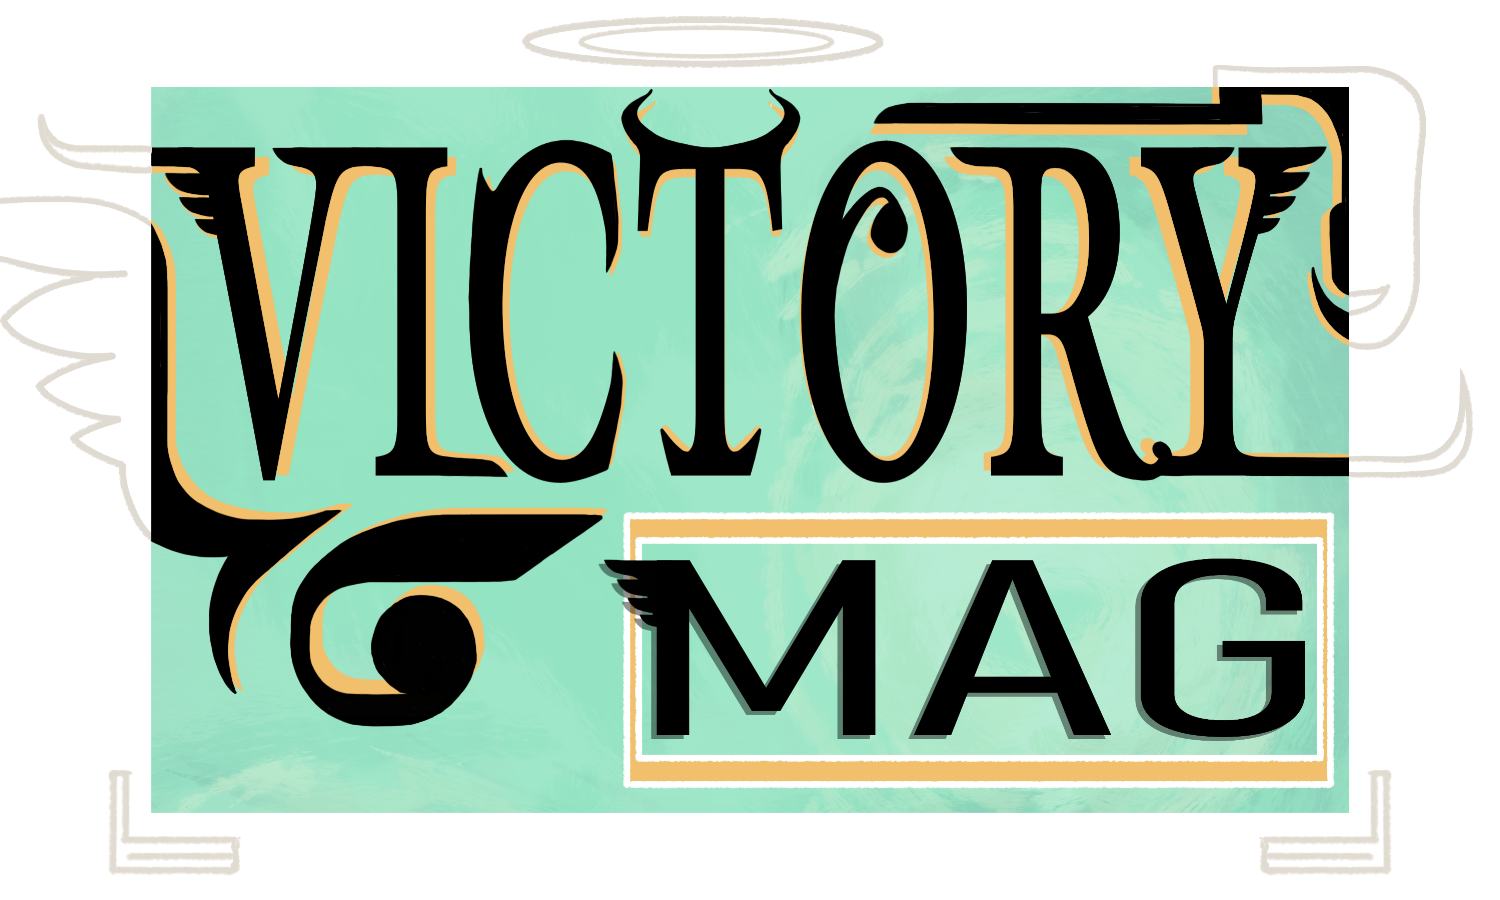
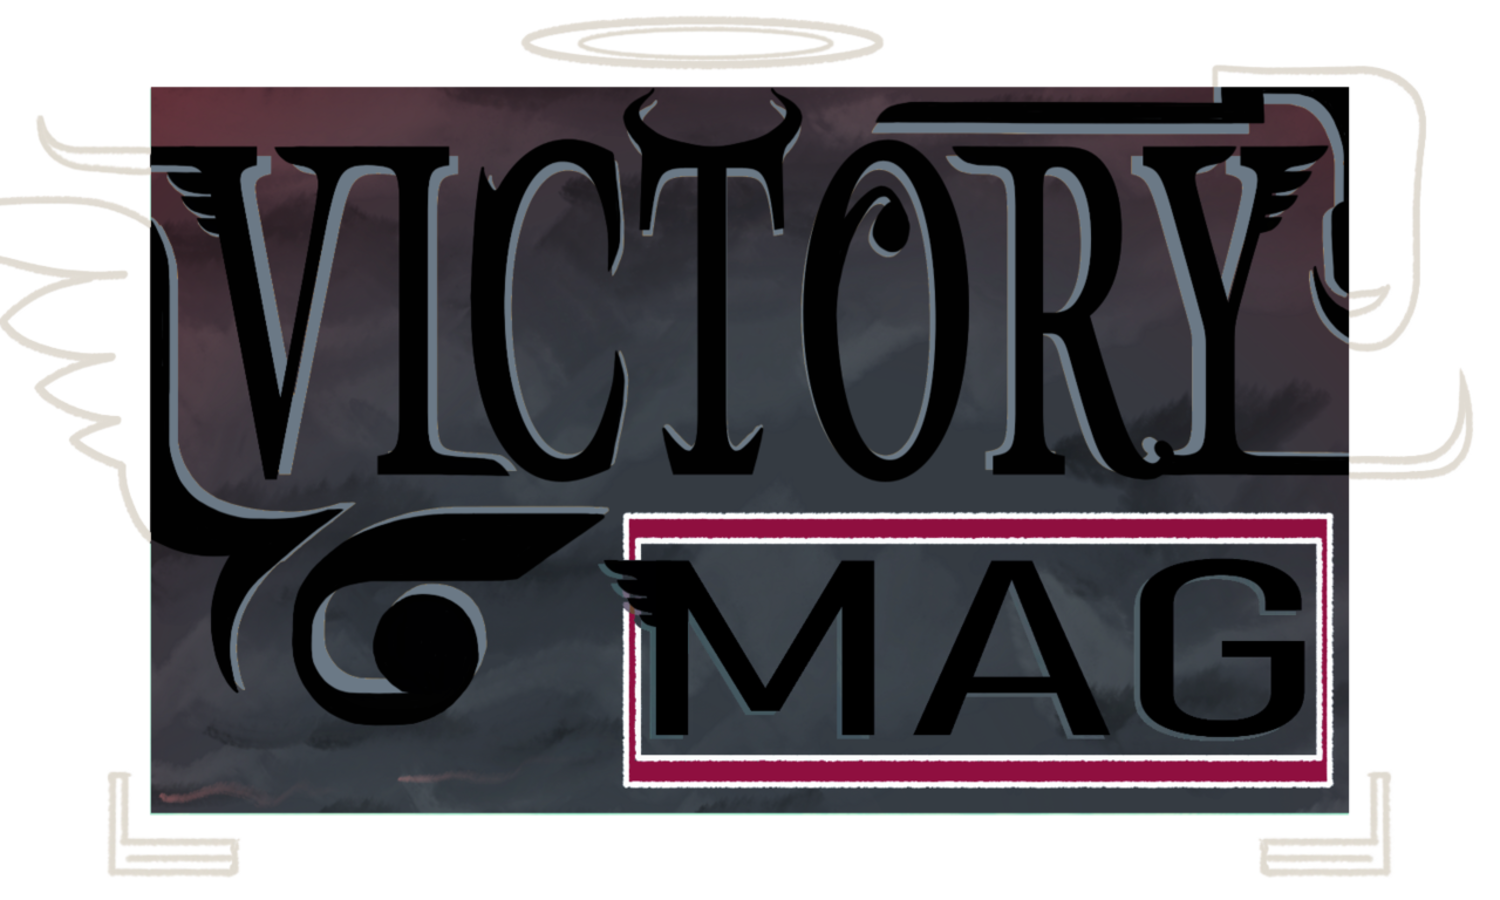
Website Update 4.14.2019 (#1)
* seperatte js started

* File Cleanup, Addition of Staff page

Cleaned up JS, CSS and seperated into files based on useage.

Addition of Staff.html Page, Currently a placeholder to test

* Create staff.html

diff --git a/staff.html b/staff.html
@@ -28,7 +28,6 @@
     <link href="https://fonts.googleapis.com/css?family=Open+Sans+Condensed:300" rel="stylesheet">
 
     <link href="css/global.css" rel="stylesheet">
-    <link href="css/split-background.css" rel="stylesheet">
     <link href="css/blur-background.css" rel="stylesheet">
 
     <script src="https://ajax.googleapis.com/ajax/libs/jquery/3.2.1/jquery.min.js"></script>
@@ -39,20 +38,15 @@
 </head>
 
 <body>
-    <img class="img_fluid bg" id="bg0" src="img/bg/001.png">
-    <img class="img_fluid bg" id="bg1" src="img/bg/002.png">
+    <img class="img_fluid bg" id="bg0" src="img/bg/abstract.png">
+
     <div class="h-100 row align-items-center">
         <div id="outPopUp" class="col-lg-8 col-xs-12">
             <img id="banner" src="img/banner/0.png" onclick="next_palette()">
-            <p>A BNHA fanzine dedicated to the future shenanigans and hijinks of the UA High kids!</p>
+            <p>Staff Page is Currently Under Development, Sorry!</p>
             <div id="container" class="button-container">
-                <a href="https://victory-mag.tumblr.com/" target="_blank"><button type="button learn-button"
-                        class="swapable button-menu">Learn More (Blog)</button></a>
-                <a href="https://goo.gl/forms/tylLaktfrMKWg5N42" target="_blank"><button type="button sub-button"
-                        class="swapable button-menu">Subscribe for Updates</button></a>
-                <a href="staff.html"><button type="button sub-button" class="swapable button-menu">Meet the
-                        Staff</button></a>
-                <a href="#"><button type="button sub-button" class="swapable button-menu">Coming Soon</button></a>
+                <a href="index.html"><button type="button sub-button" class="swapable button-menu">Back
+                        Home!</button></a>
             </div>
         </div>
     </div>

diff --git a/js/landing.js b/js/landing.js
@@ -1,0 +1,89 @@
+$(function () {
+
+  var num_bgs_available = 8;
+  var num_bgs_displayed = 2;
+  var available_bgs = []
+  var delay_ms = 30 * 1000;
+  var new_bgs = []
+  var current_bgs = []
+
+
+  for (var i = 0; i < num_bgs_available; i++) {
+
+    s = (i + 1).toString();
+    while (s.length < 3) {
+      s = "0" + s
+    }
+
+    s = s + ".png"
+
+    available_bgs.push(s);
+
+  }
+
+  current_bgs = available_bgs.slice(0, num_bgs_displayed);
+  set_backgrounds(current_bgs);
+  setTimeout(change_backgrounds, delay_ms)
+
+  function get_new_backgrouds() {
+
+    var choices = available_bgs.slice();
+
+    //filtering out current backgrounds
+    for (var i = 0; i < current_bgs.length; i++) {
+      var x = choices.indexOf(current_bgs[i])
+      if (x !== -1) choices.splice(x, 1);
+    }
+
+    //refresh choices to default if we dot have enough. repeats possible
+    if (choices.length < num_bgs_displayed) {
+      choices = available_bgs.slice();
+    }
+
+    choices = shuffle(choices);
+    new_bgs = choices.slice(0, num_bgs_displayed)
+
+
+  }
+
+  function set_backgrounds() {
+    for (var i = 0; i < new_bgs.length; i++) {
+      var n = "bg" + i.toString();
+      var img = document.getElementById(n);
+      img.src = "img/bg/" + new_bgs[i];
+    }
+
+  }
+
+  function change_backgrounds() {
+    get_new_backgrouds();
+    $(".bg").fadeOut('fast', set_backgrounds);
+    $(".bg").fadeIn('fast');
+    current_bgs = new_bgs;
+    setTimeout(change_backgrounds, delay_ms)
+
+  }
+
+  function shuffle(array) {
+    var m = array.length,
+      t, i;
+
+    // While there remain elements to shuffle…
+    while (m) {
+
+      // Pick a remaining element…
+      i = Math.floor(Math.random() * m--);
+
+      // And swap it with the current element.
+      t = array[m];
+      array[m] = array[i];
+      array[i] = t;
+    }
+
+    return array;
+  }
+
+
+
+
+});

diff --git a/css/global.css b/css/global.css
@@ -1,0 +1,65 @@
+@import url('https://maxcdn.bootstrapcdn.com/bootstrap/4.0.0-alpha.6/css/bootstrap.min.css');
+html,
+body {
+  height: 100%;
+  width: 100%;
+  display: block;
+  background-color: #333333;
+  text-align: center;font-family: 'Open Sans Condensed', sans-serif;
+}
+
+#outPopUp {
+    margin-right: auto;
+    margin-left: auto;
+  background: white;
+  -webkit-box-shadow: -2px 0px 38px 3px rgba(0,0,0,0.75);
+-moz-box-shadow: -2px 0px 38px 3px rgba(0,0,0,0.75);
+box-shadow: -2px 0px 38px 3px rgba(0,0,0,0.75);
+text-align: center;font-family: 'Open Sans Condensed', sans-serif;
+font-size: 1.25em;
+}
+
+html, body {
+    height: 100%;
+    margin: 0;
+    padding: 0;
+    width: 100%;
+}
+
+.under-construction {
+    text-align: center;
+    display: table-cell;
+    vertical-align: middle;
+}
+
+#banner{
+    height: 12em;
+    margin-left: auto;
+  margin-right: auto;
+  display:block;
+}
+
+#container button{
+    width: 210px;
+    height: 40px;
+    text-align: center;font-family: 'Open Sans Condensed', sans-serif;
+}
+
+
+.swapable{
+    background-color: #9EE1B7;
+    color:#333333;
+}
+
+#container{
+    text-align: center;
+    padding-bottom: .5em;
+    
+}
+
+.bg{
+    position: absolute;
+    display:block;
+    width:100%; height:100%;
+    object-fit: cover;
+}

diff --git a/js/paletteswap.js b/js/paletteswap.js
@@ -1,0 +1,59 @@
+$(function () {
+
+  palette_default();
+
+});
+
+
+function next_palette() {
+
+  var palettes = [{
+    "name": "light",
+    "id": 0,
+    "background-color": "#9EE1B7",
+    "color": "#333333",
+    "banner": "0.png"
+  }, {
+    "name": "dark",
+    "id": 1,
+    "background-color": "#8F0F3F",
+    "color": "#FEFEFE",
+    "banner": "1.png"
+  }];
+
+
+  var banner = document.getElementById("banner");
+  var filename = banner.src.substring(banner.src.lastIndexOf('/') + 1);
+  var curr = parseInt(filename.slice(0, -4));
+
+  curr++;
+  curr = curr % palettes.length;
+  set_palette(banner, palettes[curr]);
+
+
+
+}
+
+function set_palette(banner, palette) {
+
+  var swapable = $('.swapable');
+  swapable.css("background-color", palette["background-color"]);
+  swapable.css("color", palette["color"]);
+
+  banner.src = "img/banner/" + palette["banner"];
+}
+
+function palette_default() {
+  p = {
+    "name": "light",
+    "id": 0,
+    "background-color": "#9EE1B7",
+    "color": "#333333",
+    "banner": "0.png"
+  }
+
+  var banner = document.getElementById("banner");
+
+  set_palette(banner, p)
+
+}

diff --git a/css/split-background.css b/css/split-background.css
@@ -1,0 +1,5 @@
+.bg:nth-of-type(2){
+    -webkit-clip-path: polygon(100% 0, 0% 100%, 100% 100%);
+    clip-path: polygon(100% 0, 0% 100%, 100% 100%);
+}
+

diff --git a/css/blur-background.css b/css/blur-background.css
@@ -1,0 +1,7 @@
+.bg{
+     /* Add the blur effect */
+  filter: blur(5px);
+  -webkit-filter: blur(5px);
+
+
+}
